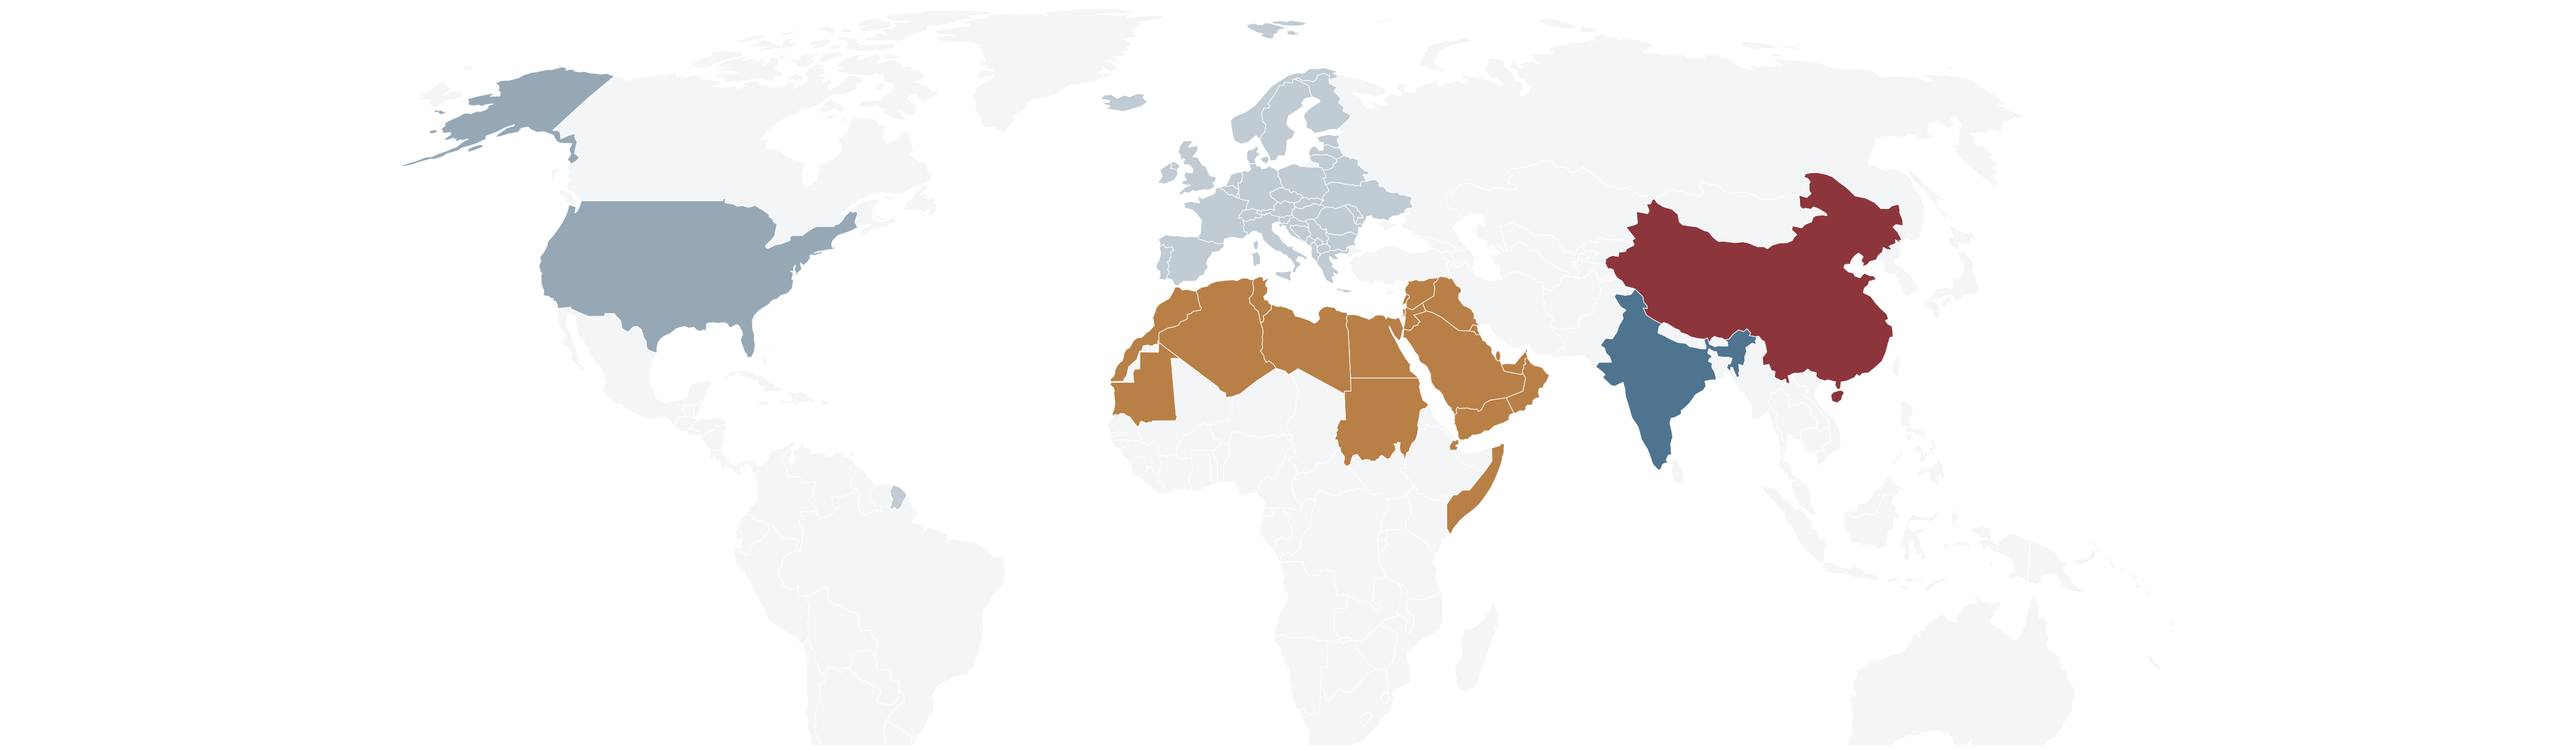
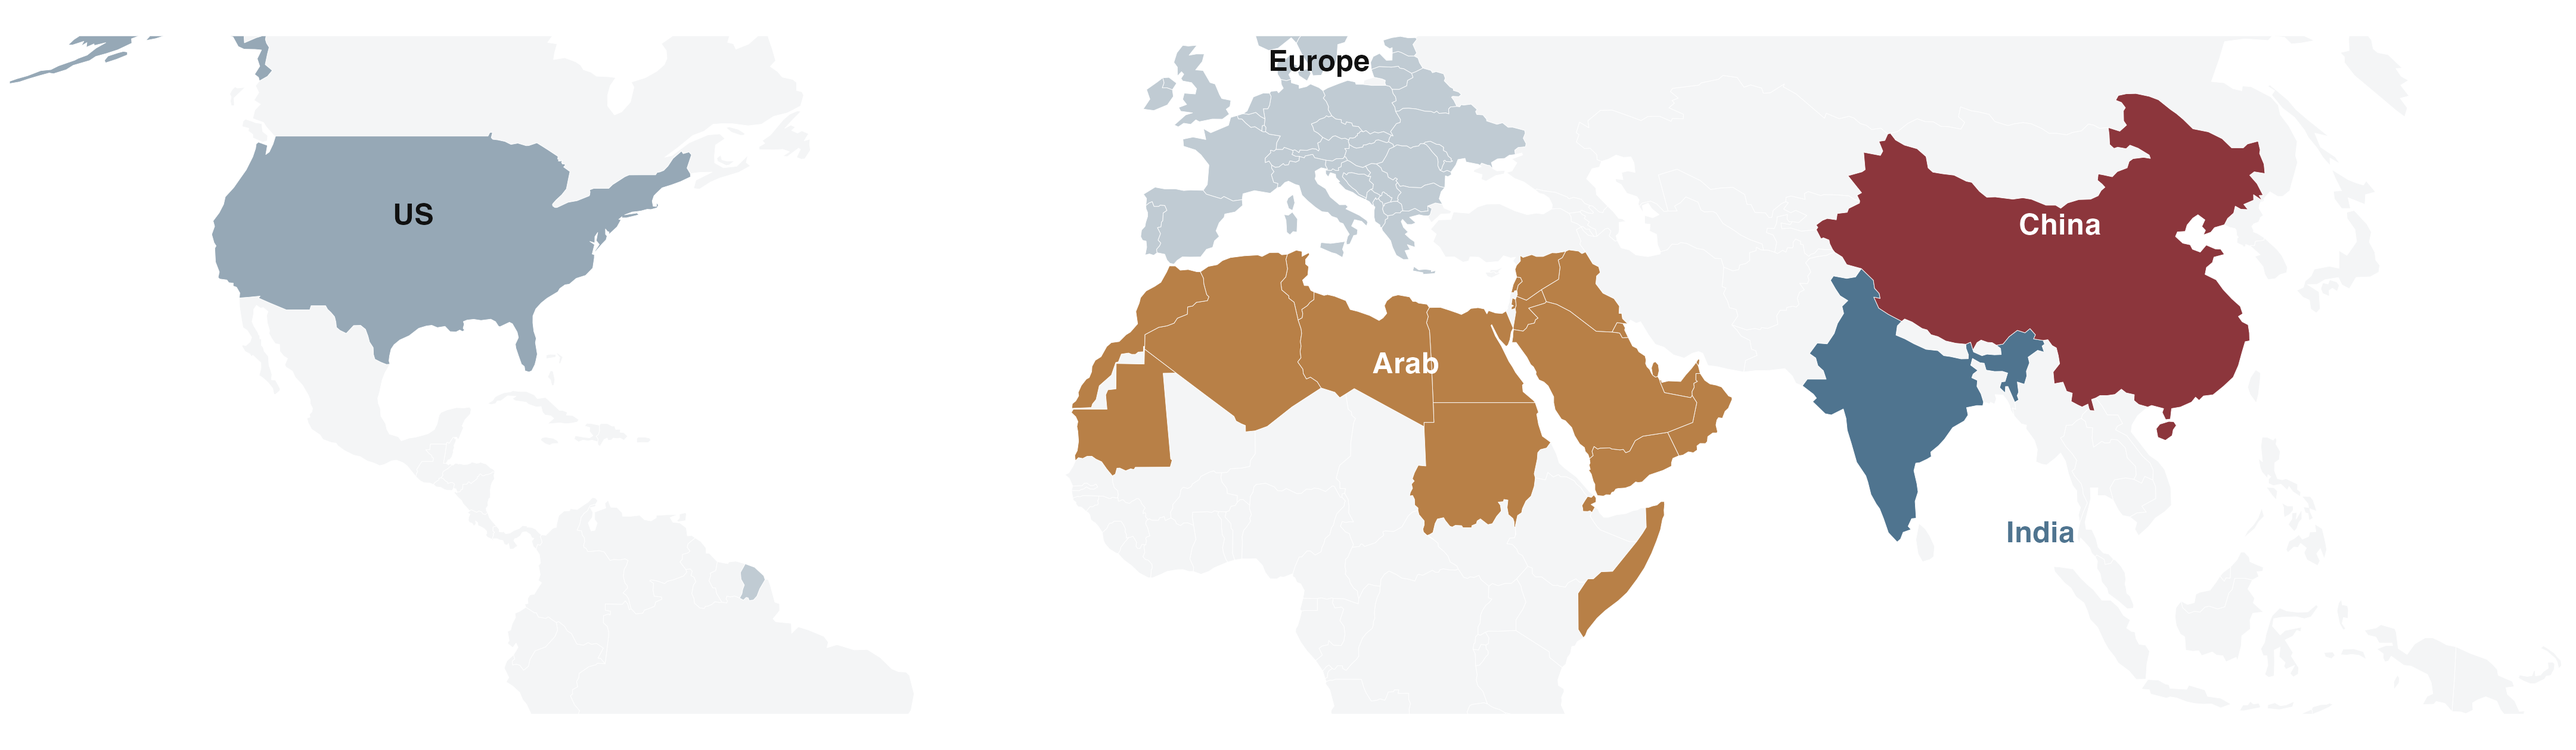
Restore the locator map to Figure 1 as a full-width band
Reinstated at the user's request. The two earlier attempts left empty margins
either side because coord_sf preserves aspect and the map was given a slot far
wider than any world map's ratio, so it shrank to fit the height. Fixed by
cropping to the latitude band that actually contains the five regions
(~10S-62N), which raises the map's aspect to ~3.8, and by sizing the band to
match. It now fills the width at a readable size with its region labels legible.

Figure 1 is A locator / B primary premium / C estimand comparison / D raw
matrix. Captions re-lettered accordingly; P1_locator remains as a standalone.

diff --git a/docs/FIGURE_CAPTIONS.md b/docs/FIGURE_CAPTIONS.md
@@ -30,7 +30,16 @@ jurisdictions to refuse China-focused issues; no other jurisdiction shows a
 comparable effect on the same comparison, and simpler home-versus-away contrasts
 overstate MENA.**
 
-**(A) Primary estimand — model-based.** Adjusted **home premium**: the
+**(A) Regional key.** Locator identifying the five issue regions in the colours
+used throughout the figure. It carries no estimates and is subordinate to the
+statistical panels. "Arab" is operationalised as the 22 Arab League member
+states; "Europe" as countries with continent = *Europe* excluding Russia; China,
+India and the US as those single countries. A sixth issue stratum, **General**
+(17% of issues; no regional focus), has no geographic location and is not shown.
+Shading marks **issue-region classification**, not the location of model
+developers — distinct objects that happen to use aligned category names.
+
+**(B) Primary estimand — model-based.** Adjusted **home premium**: the
 difference in predicted probability of refusal between a jurisdiction's
 own-region issues and other issues, **holding the issue fixed**. From
 `refused ~ home × jurisdiction + prompt tier + (1 | issue)`, binomial, on
@@ -46,8 +55,8 @@ with a hollow square and stated in words, never plotted as an estimate of zero.
 India's +3.0 pp rests on a **single model** (Sarvam) and **reverses sign**
 between the two estimands in panel B; it should not be read as a finding.
 
-**(B) Why the estimand matters — model-based.** One row per jurisdiction showing
-both contrasts: the within-issue premium from panel A (filled point, with its
+**(C) Why the estimand matters — model-based.** One row per jurisdiction showing
+both contrasts: the within-issue premium from panel B (filled point, with its
 95% interval) and an adjusted **within-jurisdiction** home-versus-away
 difference (hollow point) that does **not** condition on the issue. The
 descriptive contrast has no interval drawn, to keep the row readable; its values
@@ -58,11 +67,11 @@ within-jurisdiction contrast cannot distinguish "this jurisdiction is sensitive
 about its own region" from "this region is sensitive to everyone", which is why
 it is descriptive only.
 
-**(C) Raw regional structure — descriptive.** Observed refusal rate (%) for each
+**(D) Raw regional structure — descriptive.** Observed refusal rate (%) for each
 model-jurisdiction × issue-region cell. Fill encodes the same quantity that is
 printed, on one sequential scale. Thin grey outlines mark home cells; the single
 red outline marks CN × China. **General** issues (no regional focus, 17% of the
-battery) are excluded here for consistency with the estimand in panels A and B,
+battery) are excluded here for consistency with the estimand in panels B and C,
 which is undefined for them. The Arab row is elevated across every jurisdiction
 — India's models refuse Arab issues at 12.5% against MENA's 13.4%, from a much
 lower baseline — which is why MENA's home effect does not survive the
@@ -128,12 +137,8 @@ harm-dominant at the bottom.
 `P1`–`P8` are two-column PNGs for individual use. Two are **not** part of the
 main sequence:
 
-- **`P1_locator.png`** — world locator identifying the five issue regions in the
-  same colours used throughout. It is a key, not evidence, and was removed from
-  Figure 1 for that reason. "Arab" is the 22 Arab League member states; "Europe"
-  is countries with continent = *Europe* excluding Russia; China, India and the
-  US are those single countries. Shading marks **issue-region classification**,
-  not the location of model developers.
+- **`P1_locator.png`** — the same locator as Figure 1A, sized for standalone or
+  presentation use.
 - **`P5_china_language.png`** — home premium for the two Chinese-developed
   models, estimated separately in English and Chinese from
   `refused ~ home × language + tier + (1 | issue)`, with 95%
